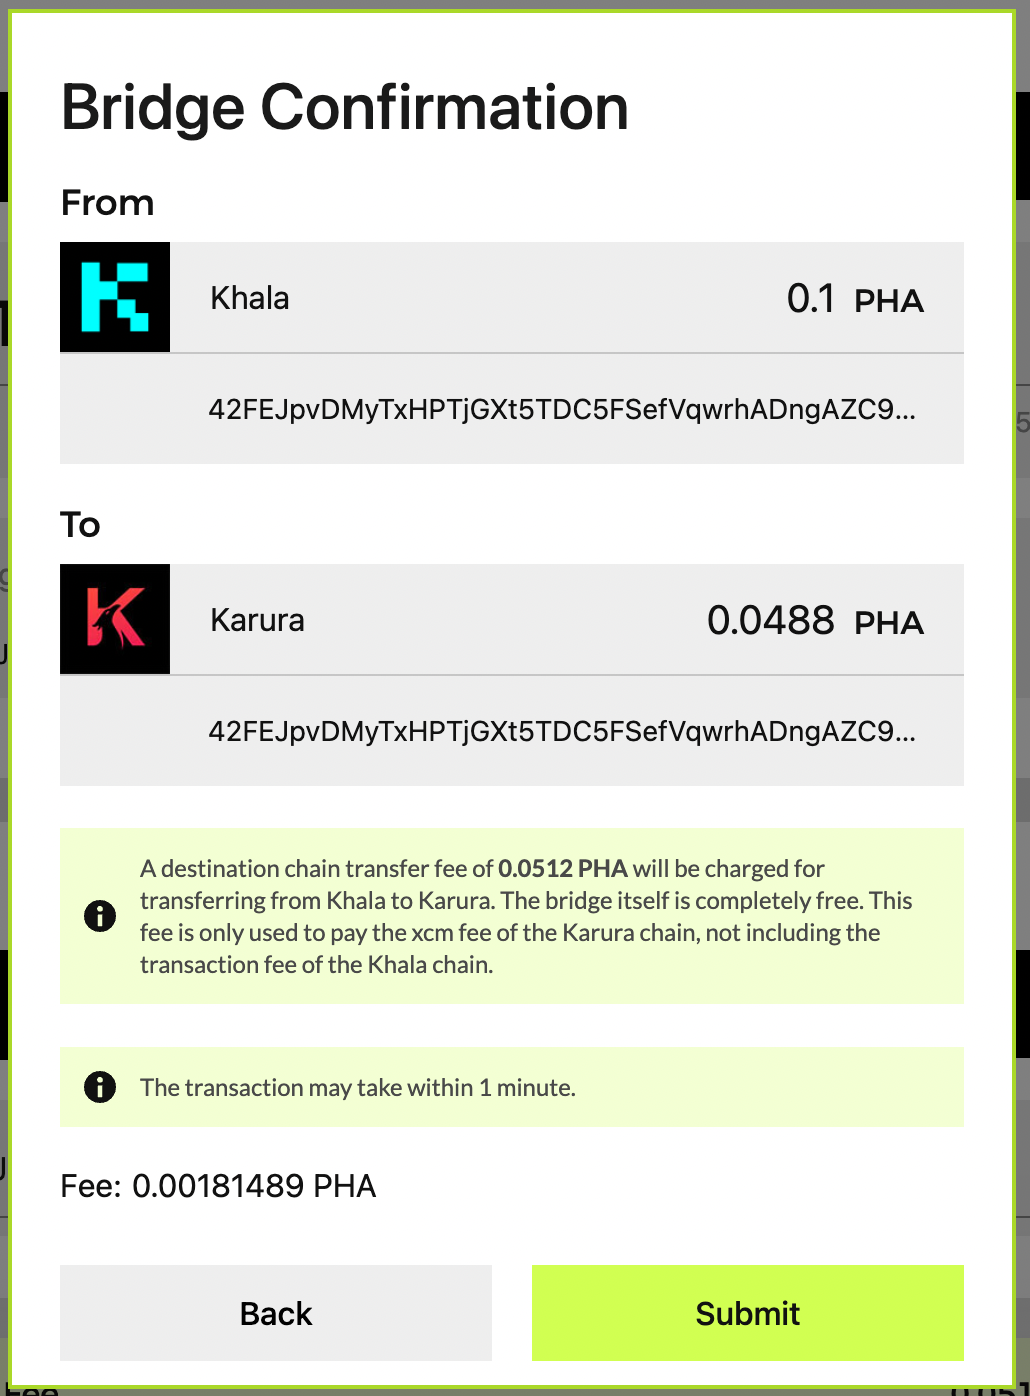
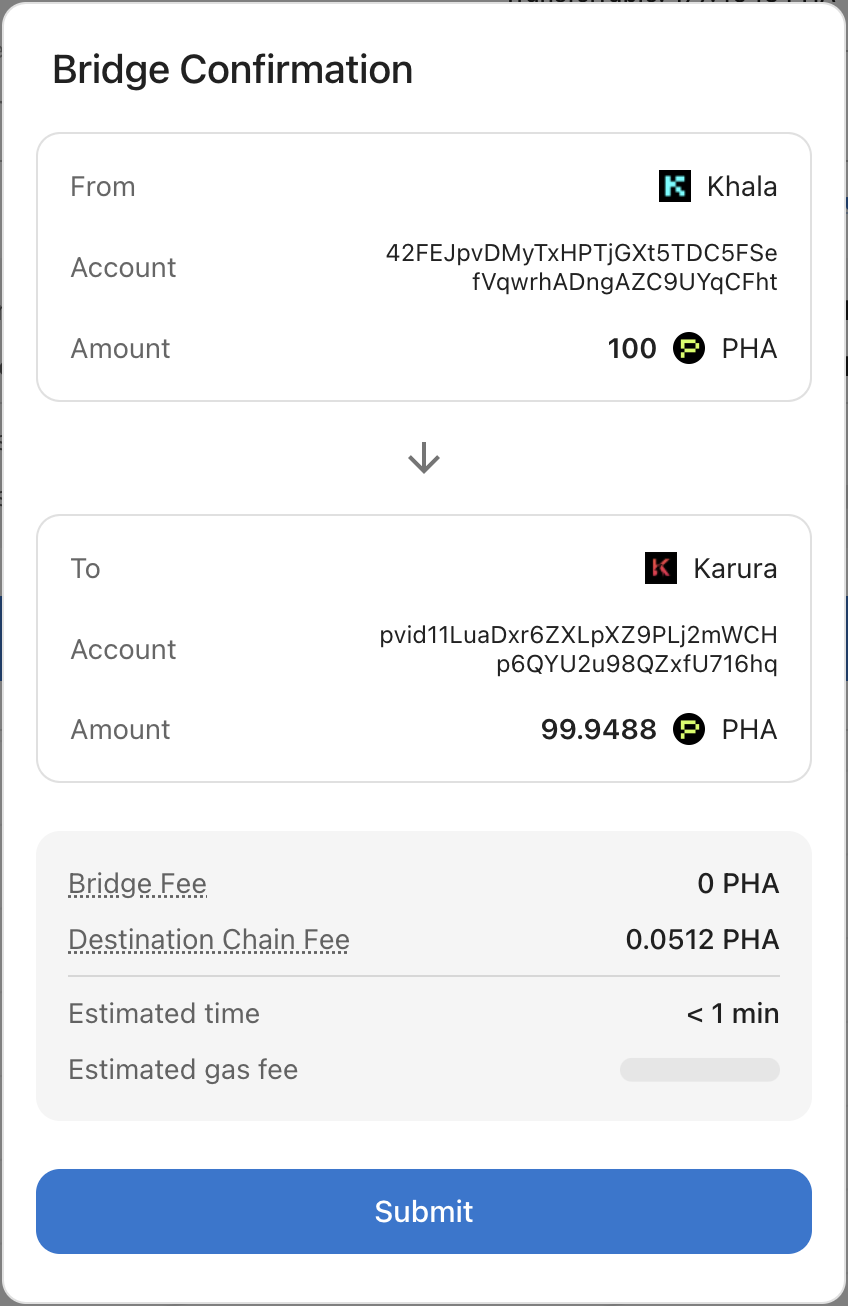
subbridge: update subbridge.io

diff --git a/content/en-us/general/subbridge/tutorial.md b/content/en-us/general/subbridge/tutorial.md
@@ -15,17 +15,17 @@ This tutorial takes the transfer of PHA from Ethereum to Khala as an example. Yo
   <img src="/images/general/subbridge-eth-khala.png" width="400"/>
 </p>
 
-1. Open [SubBridge](https://app.phala.network/bridge/), switch *From* chain to Ethereum, *To* chain to Khala, and choose `PHA` as the currency;
-2. Connect to Metamask;
+1. Open [SubBridge](https://subbridge.io/), switch *From* chain to Ethereum, *To* chain to Khala, and choose `PHA` as the currency;
+2. Press *Connect Wallet* and connect to Metamask;
 3. Fill in the amount of ERC-20 PHA that you want to transfer from Ethereum;
+4. Enter the receiving account on Khala, note that it should be the Khala address;
+5. If it’s the first time you are transferring your PHA assets, you may need to click on the *Approve* button and sign with Metamask to confirm;
 
 <p align="center">
   <img src="/images/general/subbridge-metamask.png" width="400"/>
 </p>
 
-4. If it’s the first time you are transferring your PHA assets, you may need to click on the *Approve* button and sign with Metamask to confirm;
-5. Enter the receiving account on Khala, note that it should be the Khala address;
-6. Then confirm and click the *Submit* button;
+6. Then confirm and click the *Transfer* button;
 7. Double-check your accounts and figures and then click *Submit* in the pop-up window, sign with Metamask, and submit your cross-chain asset transaction;
 8. You can go to Etherscan to check the sending details on the Etherscan block explorer when your transaction is sent; if you have any questions, you can consult our [Discord](https://discord.com/invite/phala).
 
@@ -37,18 +37,18 @@ This tutorial takes the transfer of PHA from Khala to Karura as an example, and 
   <img src="/images/general/subbridge-transfer.png" width="400"/>
 </p>
 
-1. Open [SubBridge](https://app.phala.network/bridge/), switch *From* chain to Khala, *To* chain to Karura, and choose `PHA` as the currency;
+1. Open [SubBridge](https://subbridge.io/), switch *From* chain to Khala, *To* chain to Karura, and choose `PHA` as the currency;
 2. Connect the Source Chain (Khala)’s account, enter the transfer amount;
     > Note: Do not transfer all the token, you need to keep a certain fee in the account to ensure that it is not deleted.
-3. Enter the receiving account on destination chain (Karura), note that it should be the Karura address;
-4. Click *Submit*;
+3. Enter the receiving account on destination chain (Karura), note that it should be the Karura address. The destination account is your source account by default, you can click *Edit manually* to use other addresses;
+4. Click *Transfer*;
+5. Confirm pop-up window;
+    > Note: A transfer fee of 0.0512 PHA will be charged for transferring from Khala to Karura. The bridge itself is completely free. This fee is used to pay the XCM fee of the Karura chain. It does not include the transaction fee of the Khala chain.
+6. Click *Submit* to sign;
 
 <p align="center">
   <img src="/images/general/subbridge-confirm.png" width="400"/>
 </p>
 
-5. Confirm pop-up window;
-    > Note: A transfer fee of 0.0512 PHA will be charged for transferring from Khala to Karura. The bridge itself is completely free. This fee is used to pay the XCM fee of the Karura chain. It does not include the transaction fee of the Khala chain.
-6. Click *Submit* again to sign;
 7. The transaction is sent from Khala, wait for the transaction to be confirmed;
 8. Then you can go to destination chain’s wallet (in this case, [Karura Apps](https://apps.karura.network/portfolio)) to check whether you have received the token (PHA). If it is not received within 1 minute, you can go to the Khala chain explorer ([Subscan](https://khala.subscan.io/)) to check whether you have sent a transaction; if you have any questions, you can consult our [Discord](https://discord.com/invite/phala).
